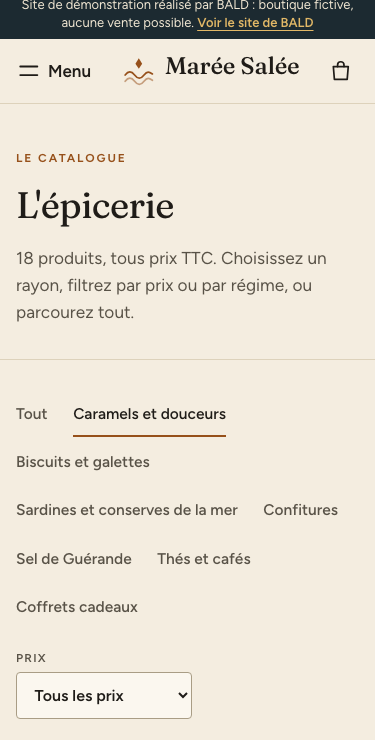
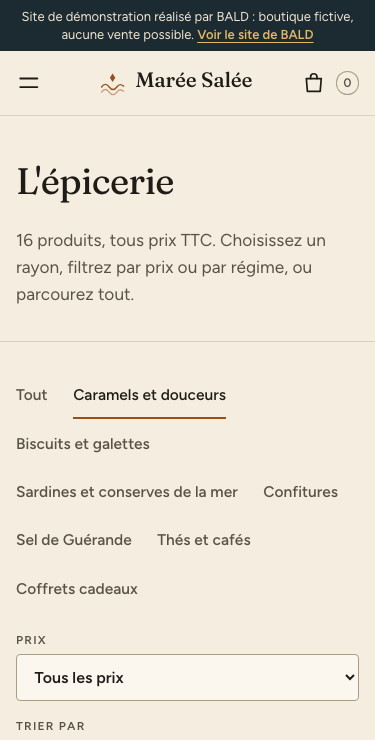
Finition : libellés redondants retirés, compteur du catalogue, sélection de texte, captures

diff --git a/css/style.css b/css/style.css
@@ -58,6 +58,10 @@
 
 *, *::before, *::after { box-sizing: border-box; }
 html { -webkit-text-size-adjust: 100%; scroll-behavior: smooth; scroll-padding-top: 5.5rem; }
+::selection { background: var(--caramel); color: #fff; }
+@media (prefers-color-scheme: dark) { ::selection { background: var(--beurre); color: #14201f; } }
+input, textarea, select { caret-color: var(--caramel); accent-color: var(--caramel); }
+html { scrollbar-color: var(--trait-fort) var(--sel); }
 body { margin: 0; background: var(--sel); color: var(--encre); font: 400 1.0625rem/1.65 var(--police-texte); -webkit-font-smoothing: antialiased; text-rendering: optimizeLegibility; overflow-wrap: break-word; }
 img { display: block; max-width: 100%; height: auto; }
 h1, h2, h3 { font-family: var(--police-titre); font-weight: 420; letter-spacing: -.015em; line-height: 1.1; margin: 0; text-wrap: balance; }
@@ -99,7 +103,7 @@ strong { font-weight: 650; }
 .panier-lien { display: inline-flex; align-items: center; gap: .55rem; min-height: 2.75rem; padding: 0 .35rem; text-decoration: none; font-weight: 600; justify-self: end; }
 .panier-lien svg { width: 1.6rem; height: 1.6rem; }
 .panier-nb { display: inline-grid; place-items: center; min-width: 1.45rem; height: 1.45rem; padding: 0 .35rem; border-radius: 99px; background: var(--ardoise); color: var(--sur-ardoise); font-size: .78rem; font-variant-numeric: tabular-nums; transition: background .3s, transform .3s var(--ease); }
-.panier-nb[data-vide="1"] { background: transparent; color: var(--encre-douce); box-shadow: inset 0 0 0 1px var(--trait-fort); }
+.panier-nb[data-zero="1"] { background: transparent; color: var(--encre-douce); box-shadow: inset 0 0 0 1px var(--trait-fort); }
 .panier-nb.bump { animation: bump .4s var(--ease); }
 @keyframes bump { 0% { transform: scale(1); } 35% { transform: scale(1.4); background: var(--caramel); } 100% { transform: scale(1); } }
 @media (prefers-color-scheme: dark) { .panier-nb { background: var(--beurre); color: #14201f; } }
@@ -147,7 +151,7 @@ strong { font-weight: 650; }
 .lien-bouton { background: none; border: 0; padding: 0; text-decoration: underline; font-weight: 600; }
 .kilo { display: block; font-size: .875rem; color: var(--encre-douce); font-variant-numeric: tabular-nums; }
 .note, .aide { font-size: .9375rem; color: var(--encre-douce); }
-.note-fictive { font-size: .9375rem; font-style: italic; color: var(--encre-douce); border-left: 2px solid var(--trait-fort); padding-left: 1rem; }
+.note-fictive { font-size: .9375rem; font-style: italic; color: var(--encre-douce); border-top: 1px solid var(--trait-fort); padding-top: .9rem; max-width: 30rem; }
 .bloc { padding-block: clamp(3.5rem, 8vw, 6.5rem); }
 .bloc-tete { display: flex; justify-content: space-between; align-items: end; gap: 1rem 3rem; flex-wrap: wrap; margin-bottom: clamp(1.8rem, 4vw, 3rem); }
 .bloc-intro { max-width: 30rem; margin: 0; color: var(--encre-douce); }
@@ -326,7 +330,6 @@ select { width: auto; min-width: min(11rem, 100%); max-width: 100%; padding-righ
 .fiche-detail > :not(summary) { padding-bottom: .3rem; color: var(--encre); }
 .intitule { color: var(--caramel); }
 .liste-simple li { padding: .35rem 0; border-top: 1px solid var(--trait); }
-.fiche-demo { margin: 1.6rem 0 0; font-size: .875rem; font-style: italic; color: var(--encre-douce); }
 .associes { padding-top: clamp(2.5rem, 5vw, 4rem); border-top: 1px solid var(--trait-fort); padding-bottom: clamp(3rem, 6vw, 5rem); }
 .associes h2 { margin-bottom: 2rem; }
 @media (max-width: 52rem) { .fiche { grid-template-columns: minmax(0, 1fr); } .fiche-photo { position: static; } .fiche-photo img { aspect-ratio: 1 / 1; } }
@@ -389,7 +392,6 @@ select { width: auto; min-width: min(11rem, 100%); max-width: 100%; padding-righ
 .resume-note { font-size: .8125rem; color: var(--encre-douce); margin: .9rem 0 0; }
 .vide-panier { max-width: 32rem; padding: 2rem 0; }
 .vide-panier p { font-size: 1.1rem; }
-.total-anime { display: inline-block; }
 
 /* ---------- Commande factice */
 .commande > * { min-width: 0; }
@@ -417,7 +419,7 @@ select { width: auto; min-width: min(11rem, 100%); max-width: 100%; padding-righ
 @media (max-width: 36rem) { .grille-champs { grid-template-columns: minmax(0, 1fr); } }
 .champ label { display: block; font-weight: 600; font-size: .9375rem; margin-bottom: .35rem; }
 .facultatif { font-weight: 400; color: var(--encre-douce); }
-.champ input[aria-invalid="true"], .champ textarea[aria-invalid="true"] { border-color: var(--erreur); box-shadow: inset 3px 0 0 var(--erreur); }
+.champ input[aria-invalid="true"], .champ textarea[aria-invalid="true"] { border-color: var(--erreur); border-width: 2px; }
 .erreur { margin: .35rem 0 0; font-size: .875rem; color: var(--erreur); font-weight: 550; }
 .champ-case .case { align-items: flex-start; padding-block: .5rem; }
 .choix { display: grid; gap: .8rem; margin-bottom: 1.4rem; }

diff --git a/src/pages/index.html b/src/pages/index.html
@@ -6,7 +6,6 @@ classe: page-accueil
 <section class="hero">
   <div class="conteneur hero-grille">
     <div class="hero-texte">
-      <p class="surtitre">Épicerie fine · Rennes</p>
       <h1>Caramel salé, sardines, sablés pur beurre.</h1>
       <p class="chapeau">Une épicerie de quartier qui ne vend que de la Bretagne : des pots, des boîtes et des paquets choisis un à un, à retirer en boutique ou à recevoir chez vous.</p>
       <p class="hero-actions"><a class="bouton" href="catalogue.html">Entrer dans l'épicerie {{icone:fleche}}</a><a class="lien-fleche" href="catalogue.html#cat-coffrets">Voir les coffrets</a></p>
@@ -58,7 +57,6 @@ classe: page-accueil
   <div class="conteneur histoire-grille">
     <figure class="histoire-photo"><img src="assets/img/700/phare-bretagne.jpg" srcset="assets/img/700/phare-bretagne.jpg 700w, assets/img/phare-bretagne.jpg 1400w" sizes="(min-width: 56rem) 38vw, 92vw" width="1400" height="2100" alt="Phare au bord de la mer en Bretagne, ciel gris" loading="lazy"><figcaption>Photo d'illustration.</figcaption></figure>
     <div class="histoire-texte">
-      <p class="surtitre">La maison</p>
       <h2 id="t-histoire">Une cave à bocaux, une table en bois, une carte au crayon.</h2>
       <p>Marée Salée est née d'une envie simple : trouver à Rennes tout ce qu'on rapporte de Bretagne en vacances, sans avoir à y retourner. Le caramel vient d'un chaudron, les sardines d'une conserverie de la côte, le sel d'un marais.</p>
       <p>Chaque produit est goûté à la boutique avant d'entrer au catalogue. Ceux qui ne passent pas le test restent chez le fabricant.</p>
@@ -71,7 +69,6 @@ classe: page-accueil
 <section class="bloc retrait" aria-labelledby="t-retrait">
   <div class="conteneur retrait-grille">
     <div>
-      <p class="surtitre">Retrait en boutique</p>
       <h2 id="t-retrait">Commandez le matin, passez l'après-midi.</h2>
       <ol class="etapes-retrait">
         <li><strong>1.</strong> Vous composez votre panier et choisissez « Retrait en boutique ».</li>

diff --git a/src/partials/tete.html b/src/partials/tete.html
@@ -4,6 +4,6 @@
     <button class="menu-bouton" type="button" aria-expanded="false" aria-controls="nav">{{icone:menu}}<span>Menu</span></button>
     <a class="marque" href="index.html" aria-label="{{site.nom}}, accueil">{{logo}}<span class="marque-nom">{{site.nom}}</span><span class="marque-metier">{{site.metier}}</span></a>
     <nav class="nav" id="nav" aria-label="Navigation principale"><ul>{{nav}}</ul></nav>
-    <a class="panier-lien" href="panier.html" data-panier-lien>{{icone:sac}}<span class="panier-texte">Panier</span><span class="panier-nb" data-panier-nb aria-hidden="true">0</span><span class="visuellement-cache" data-panier-annonce role="status"></span></a>
+    <a class="panier-lien" href="panier.html" data-panier-lien>{{icone:sac}}<span class="panier-texte">Panier</span><span class="panier-nb" data-panier-nb data-zero="1" aria-hidden="true">0</span><span class="visuellement-cache" data-panier-annonce role="status"></span></a>
   </div>
 </header>

diff --git a/src/pages/commande-terminee.html b/src/pages/commande-terminee.html
@@ -6,7 +6,6 @@ scripts: fin
 ---
 <section class="bloc fin">
   <div class="conteneur fin-corps">
-    <p class="surtitre">Fin de la démonstration</p>
     <h1>Aucune commande n'a été passée, aucun paiement n'a été effectué.</h1>
     <p class="chapeau">Marée Salée est une boutique fictive. Vous venez de parcourir ce que vivrait un vrai client : le panier, les coordonnées, le choix de livraison, le récapitulatif. Au bout, une vraie boutique vous demanderait le paiement et vous enverrait un e-mail de confirmation.</p>
     <ul class="fin-liste">

diff --git a/src/pages/404.html b/src/pages/404.html
@@ -4,7 +4,6 @@ description: Cette page n'existe pas sur le site de démonstration Marée Salée
 ---
 <section class="bloc fin">
   <div class="conteneur fin-corps">
-    <p class="surtitre">Erreur 404</p>
     <h1>Cette page n'est pas au rayon.</h1>
     <p class="chapeau">L'adresse a peut-être changé, ou le produit n'est plus au catalogue.</p>
     <p class="fin-actions"><a class="bouton" href="catalogue.html">Voir toute l'épicerie {{icone:fleche}}</a><a class="lien-fleche" href="index.html">Retour à l'accueil</a></p>

diff --git a/js/boutique.js b/js/boutique.js
@@ -70,7 +70,7 @@
     var n = nombre(panier);
     if (elNb) {
       elNb.textContent = String(n);
-      elNb.setAttribute("data-vide", n === 0 ? "1" : "0");
+      elNb.setAttribute("data-zero", n === 0 ? "1" : "0");
       if (n > dernierNb && !reduit) { elNb.classList.remove("bump"); void elNb.offsetWidth; elNb.classList.add("bump"); }
     }
     if (elLien) elLien.setAttribute("aria-label", n === 0 ? "Panier, vide" : "Panier, " + n + (n > 1 ? " articles" : " article") + ", " + euro.format(sousTotal(panier)));

diff --git a/src/pages/cgv.html b/src/pages/cgv.html
@@ -5,7 +5,6 @@ classe: page-juridique
 ---
 <div class="entete-page">
   <div class="conteneur">
-    <p class="surtitre">Exemple de document</p>
     <h1>Conditions générales de vente</h1>
     <p class="chapeau">Modèle fourni à titre d'exemple pour la démonstration. Sur une vraie boutique, il doit être relu et adapté à l'activité par le commerçant, éventuellement avec un conseil juridique. Ici, aucune vente n'est possible.</p>
   </div>

diff --git a/src/pages/a-propos.html b/src/pages/a-propos.html
@@ -4,7 +4,6 @@ description: L'histoire imaginaire de Marée Salée, épicerie fine bretonne à 
 ---
 <div class="entete-page">
   <div class="conteneur">
-    <p class="surtitre">Notre maison</p>
     <h1>Une épicerie qui ne vend que ce qu'elle a goûté.</h1>
     <p class="chapeau">Marée Salée est une boutique fictive. Voici l'histoire qu'on lui a inventée, pour que la démonstration ressemble à une vraie maison.</p>
   </div>

diff --git a/src/pages/livraison-retours.html b/src/pages/livraison-retours.html
@@ -4,7 +4,6 @@ description: Frais de port, seuil de livraison offerte, retrait gratuit en bouti
 ---
 <div class="entete-page">
   <div class="conteneur">
-    <p class="surtitre">Recevoir sa commande</p>
     <h1>Livraison, retrait et retours</h1>
     <p class="chapeau">Ces conditions sont un exemple. Aucune commande ne peut être passée sur ce site.</p>
   </div>

diff --git a/src/pages/actualites.html b/src/pages/actualites.html
@@ -4,7 +4,6 @@ description: Les nouvelles de la boutique fictive Marée Salée : nouveaux produ
 ---
 <div class="entete-page">
   <div class="conteneur">
-    <p class="surtitre">Les nouvelles</p>
     <h1>Actualités</h1>
     <p class="chapeau">Arrivages, retours de saison, coffrets. Ces actualités sont inventées pour la démonstration.</p>
   </div>

diff --git a/src/pages/contact.html b/src/pages/contact.html
@@ -4,7 +4,6 @@ description: Coordonnées fictives et horaires de la boutique Marée Salée, à 
 ---
 <div class="entete-page">
   <div class="conteneur">
-    <p class="surtitre">Nous écrire, nous appeler</p>
     <h1>Contact</h1>
     <p class="chapeau">Toutes les coordonnées ci-dessous sont fictives : la boutique n'existe pas.</p>
   </div>

diff --git a/src/pages/commande.html b/src/pages/commande.html
@@ -6,7 +6,6 @@ scripts: commande
 ---
 <div class="entete-page">
   <div class="conteneur">
-    <p class="surtitre">Démonstration</p>
     <h1>Votre commande</h1>
     <p class="chapeau">Ce parcours est un exemple : rien n'est envoyé, rien n'est payé. Vous pouvez saisir des données inventées.</p>
   </div>
